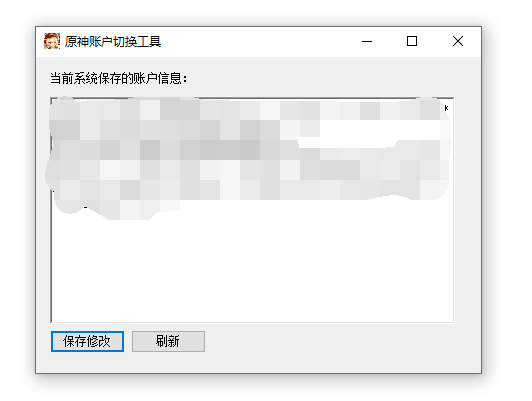
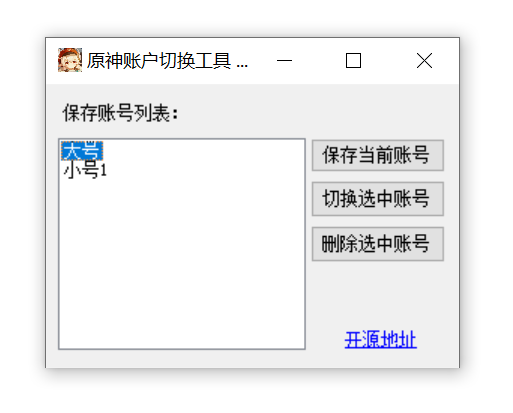
update

diff --git a/README.md b/README.md
@@ -1,7 +1,8 @@
-# 原神账号切换工具
-## 原神已经修改了账户信息的保存机制，此工具暂时失效
+# 🛠原神账号切换工具
 
-一个用于快速切换原神账户信息的工具，当前仅在Win10环境下测试验证通过。
+一个用于在一台电脑上快速切换原神账号的小工具。
+
+<del>原神周年可以领20连，为了方便切换各个小号领取，所以有了这个工具</del>
 
 [下载地址](https://github.com/babalae/genshin-account/releases)
 
@@ -15,4 +16,6 @@
 * Windows 7 或更高版本。
 * [.NET Framework 4.5](https://www.microsoft.com/zh-cn/download/details.aspx?id=30653) 或更高版本。
 
-打开软件，文本框中的json数据就是你系统当前记住的账户信息，你可以随意复制别人的账户信息替换当前信息，并进行登陆。
+就三个按钮，先登录后保存，后续就可以随便切换了。
+
+切换账户要关闭原神进程。
